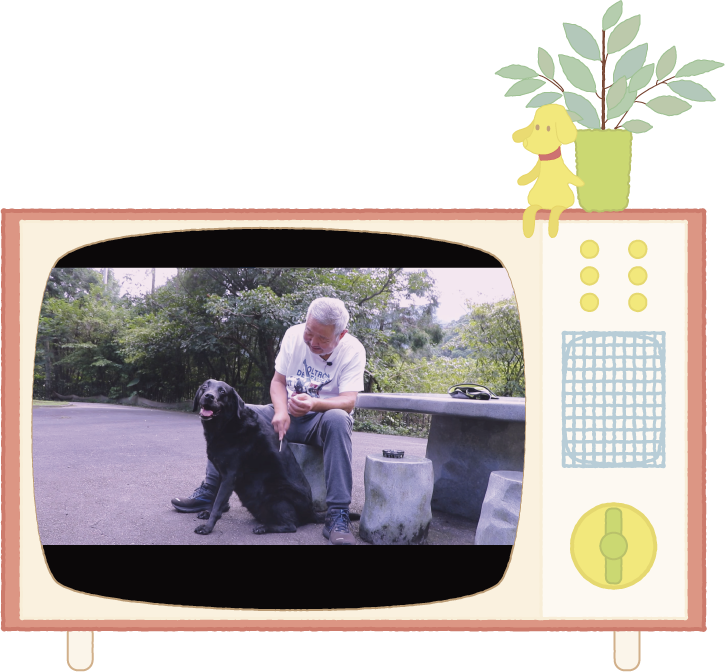
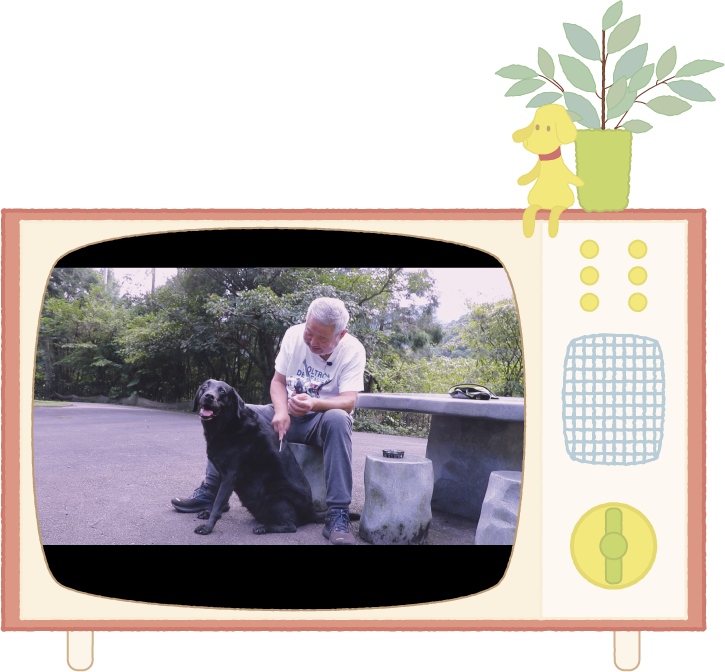
update

diff --git a/script/ElderlyObject.js b/script/ElderlyObject.js
@@ -51,6 +51,7 @@ class Tv extends Video {
         this.fadeText = "點擊播放影片";
         this.spriteHeight = 10;
         this.videoList = [function () { return new ElderlyAction_Hair(this.manager, this) }.bind(this)];
+        this.uiScale = 0.25;
     }
     resize() {
         this.w = this.manager.w;
@@ -61,10 +62,10 @@ class Tv extends Video {
                 this.frame.alpha = 1;
                 this.UItint("white");
                 this.page.container.scale.set(this.zoomIn * this.manager.canvasScale);
-                this.page.container.position.set(-this._x * this.zoomIn + 200, -this._y * this.zoomIn - 200);
+                this.page.container.position.set((-this._x + 83.5) * this.zoomIn, (-this._y - 73.5) * this.zoomIn);
             }
             else if (this.fullButton.turn) {
-                let fz = 3.75;
+                let fz = 3.8;
                 this.frame.alpha = 0;
                 this.UItint("brown");
                 this.page.container.scale.set(fz);
@@ -115,7 +116,7 @@ class Tv extends Video {
 
         this.video = this.videoList[this.random]();
         this.video.setup();
-        this.video.container.position.set(-83, 73);
+        this.video.container.position.set(-83, 72);
         this.drawUI();
         if (!this.cancel) { this.drawCancel(); }
         this.cancel.visible = true;
@@ -124,11 +125,11 @@ class Tv extends Video {
     }
     drawUI() {
         this.ui = new PIXI.Container();
-        this.frame = createSprite("image/video/tv.png", 0.5, this.scale);
-        this.playButton = createSprite("image/video/elderly/play.png", 0.5, this.scale);
-        this.volumeButton = createSprite("image/video/elderly/volume.png", 0.5, this.scale);
-        this.nextButton = createSprite("image/video/elderly/next.png", 0.5, this.scale);
-        this.fullButton = createSprite("image/video/elderly/full.png", 0.5, this.scale);
+        this.frame = createSprite("image/video/tv.png", 0.5, 0.5);
+        this.playButton = createSprite("image/video/elderly/play.png", 0.5, this.uiScale);
+        this.volumeButton = createSprite("image/video/elderly/volume.png", 0.5, this.uiScale);
+        this.nextButton = createSprite("image/video/elderly/next.png", 0.5, this.uiScale);
+        this.fullButton = createSprite("image/video/elderly/full.png", 0.5, this.uiScale);
 
         let standard = -270;
         let h = 235;

diff --git a/script/CompanyObject.js b/script/CompanyObject.js
@@ -1,7 +1,7 @@
 import * as PIXI from 'pixi.js';
 import gsap from "gsap";
 import { PixiPlugin } from "gsap/PixiPlugin";
-import { linkObject, PageObject, Background, Player } from './GameObject.js';
+import { linkObject, PageObject, Background, Player, Door, Video } from './GameObject.js';
 import { Page } from './Data.js';
 
 gsap.registerPlugin(PixiPlugin);
@@ -12,9 +12,35 @@ export default class CompanyObject extends PageObject {
         super(manager);
         this.name = "companyObject";
         this.children = {
-            "background": new Background(this.manager, this, "image/building/born/bg.png"),
+            "background": new Background(this.manager, this, "image/building/company/bg.png"),
+            "door": new Door(this.manager, this, -0.434, -0.052, "image/building/company/door.png"),
+            "webside": new Webside(this.manager, this),
+            "video": new CompanyVideo(this.manager, this),
             "player": new Player(this.manager, this)
         };
+    }
+}
+class Webside extends linkObject {
+    constructor(manager, page) {
+        super(manager, page);
+        this.name = "Webside";
+        this.x = -0.02;
+        this.y = -0.07;
+        this.url = "image/building/company/webside.png";
+        this.zoomIn = 1.5;
+    }
+}
+class CompanyVideo extends linkObject {
+    constructor(manager, page) {
+        super(manager, page);
+        this.name = "Video";
+        this.x = 0.372;
+        this.y = -0.07;
+        this.url = "image/building/company/video.png";
+        this.zoomIn = 1.6;
+        this.videoList = [
+            function () { return undefined }.bind(this),
+        ];
     }
 }
 

diff --git a/script/GameObject.js b/script/GameObject.js
@@ -299,6 +299,7 @@ export class Video extends linkObject {
         this.spriteHeight = 10;
         this.videoList = [];
         this.random = Math.floor(Math.random() * this.videoList.length);
+        this.uiScale = 0.25;
     }
     resize() {
         this.w = this.manager.w;
@@ -397,11 +398,11 @@ export class Video extends linkObject {
     }
     drawUI() {
         this.ui = new PIXI.Container();
-        this.frame = createSprite("image/video/video.png", 0.5, this.scale);
-        this.playButton = createSprite("image/video/play.png", 0.5, this.scale);
-        this.volumeButton = createSprite("image/video/volume.png", 0.5, this.scale);
-        this.nextButton = createSprite("image/video/next.png", 0.5, this.scale);
-        this.fullButton = createSprite("image/video/full.png", 0.5, this.scale);
+        this.frame = createSprite("image/video/video.png", 0.5, this.uiScale);
+        this.playButton = createSprite("image/video/play.png", 0.5, this.uiScale);
+        this.volumeButton = createSprite("image/video/volume.png", 0.5, this.uiScale);
+        this.nextButton = createSprite("image/video/next.png", 0.5, this.uiScale);
+        this.fullButton = createSprite("image/video/full.png", 0.5, this.uiScale);
 
         let standard = -385;
         let h = 260;

diff --git a/script/ElderlyAction_Hair.js b/script/ElderlyAction_Hair.js
@@ -8,7 +8,7 @@ export class ElderlyAction_Hair extends Action.ActionPage {
         this.name = "ElderlyAction_Hair";
         this.offset = 50;
         this.isPlayGame = false;
-        this.videoScale = 0.27;
+        this.videoScale = 0.26;
         this.children = {
             "sound": new Action.ActionSound(this.manager, this, "elderly_hair", "sound/elderly_hair.mp3"),
             "video": new Elderly_Hair_Video(this.manager, this, "video/elderly_hair.mp4"),
